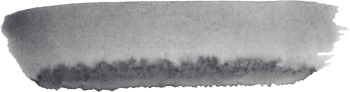
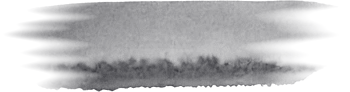
AK sweeps: torn ends, no upright slits in the earth bank

Changed region(s): [[0.0, 0.0217, 0.2857, 0.9783], [0.7143, 0.0, 1.0, 0.9348]]

diff --git a/tools/build_inklines.py b/tools/build_inklines.py
@@ -169,7 +169,7 @@ def trunks(key, ink, thr=0.12, sufs=('_t', '_y'), ylow=0.6, core=False):
         save(Y_, k, a); man[Y_][-1].update(by=round(cy(a[:, :e]), 3), ty=round(cy(a[:, -e:]), 3)); k += 1
 
 
-def rowsheet(key, ink, sufs, thr=0.1, gap=9, blob=None, top=0, skirt=None, join=25, heads=()):
+def rowsheet(key, ink, sufs, thr=0.1, gap=9, blob=None, top=0, skirt=None, join=25, heads=(), soft=()):
     """a sheet of rows of separate pieces (N: foliage, O: grass), one kind a row: rows found as bands of ink, pieces as
     runs of columns in a band (gap: what still joins two columns into one piece).
     blob (a width for every row): pieces found instead as islands of ink, grown by that much to hold an island of
@@ -196,7 +196,13 @@ def rowsheet(key, ink, sufs, thr=0.1, gap=9, blob=None, top=0, skirt=None, join=
                 t0 = ndi.median_filter(t0, size=int(81 * u) | 1, mode='nearest'); q = q * np.clip((t0[None, :] + (skirt[j] + 0.12) * hq - np.arange(hq)[:, None]) / (0.12 * hq), 0, 1)
                 rows = np.nonzero(q.max(axis=1) > thr)[0]
             cols = np.nonzero(q.max(axis=0) > thr)[0]
-            save(key + suf, k, q[rows[0]:rows[-1] + 1, cols[0]:cols[-1] + 1]); k += 1
+            q = q[rows[0]:rows[-1] + 1, cols[0]:cols[-1] + 1]
+            if j in soft:   # sheet AK, broad sweeps: each begins and ends blunt, and laid in rows on a bank those ends stood as upright slits in the dark. Both ends thinned out, each row of the piece from a place of its own, so the end is torn and not ruled
+                hq, wq = q.shape; f = max(4, int(0.16 * wq)); rg = np.random.default_rng(k + 7 * j); xs = np.arange(wq, dtype=np.float32)[None, :]
+                for sd in (0, 1):
+                    o = ndi.gaussian_filter1d(rg.random(hq).astype(np.float32), max(1.0, 0.04 * hq), mode='nearest'); o = (o - o.min()) / max(1e-6, float(o.max() - o.min())) * f
+                    q = q * np.clip(((xs if sd == 0 else wq - 1 - xs) - o[:, None]) / f, 0, 1) ** 1.3
+            save(key + suf, k, q); k += 1
     print(' rows', len(bands), 'of', len(sufs))
 
 
@@ -344,7 +350,7 @@ for name in sorted(os.listdir(SRC)):
     elif kind == 'ag': rowsheet(src, ink, ('_gc', '_ga', '_gs', '_gd', '_gm'), blob=(31, 5, 5, 15, 19))   # marks of hard rock: angular contour strokes (one has a gap), large axe-cuts, small axe-cuts, dry scrapes, clusters of blunt dots
     elif kind == 'ah': rowsheet(src, ink, ('_ec', '_eh', '_es', '_ed', '_eg'), thr=0.06, blob=(5, 15, 13, 25, 9))   # marks of soft earth: swelling contour strokes, hemp-fibre bundles, curling bundles, rice dots in level rows, grass tufts
     elif kind == 'ai': rowsheet(src, ink, ('_il', '_is', '_ig', '_in', '_if'), thr=0.05, blob=(5, 21, 31, 9, 25), join=65)   # still water: long single lines, short ones, loose groups of two to four, net-pattern patches, fish-scale patches
-    elif kind == 'ak': rowsheet(src, ink, ('_kw', '_kg', '_kd', '_km', '_kl'), thr=0.05, blob=(23, 15, 21, 21, 9), heads=(0,))   # dark near ground: broad sweeps of thick ink (solid top, lower edge breaking into dry streaks and flecks), grey wet washes (darker rim below), dry broken bands, clusters of wet moss dots, short level dabs
+    elif kind == 'ak': rowsheet(src, ink, ('_kw', '_kg', '_kd', '_km', '_kl'), thr=0.05, blob=(23, 15, 21, 21, 9), heads=(0,), soft=(0, 1))   # dark near ground: broad sweeps of thick ink (solid top, lower edge breaking into dry streaks and flecks), grey wet washes (darker rim below), dry broken bands, clusters of wet moss dots, short level dabs
     elif kind == 'b': loose(src, ink)
     print(name, L.shape[::-1], 'paper', round(bg))
 for k in man: print(k, len(man[k]), [(p['w'], p['h'], p['tone']) for p in man[k]][:10])

diff --git a/DESIGN.md b/DESIGN.md
@@ -182,3 +182,5 @@ Water as layer divider + whole-mountain mirror image = modern ink style (classic
 - Trunk, second pass (11-19, Yang rejected the full-stroke trunk: "thân trơn và hơi thô quá"): bare wood stays the dry streaky stroke; big bare trees (L >= 0.3H) get a thinner, paler full stroke under every limb so streaks stand on wood, not paper. Lattice at forks reduced, not gone.
 
 - Sheet AK cut 11-19 (Muse only; `ONLY=ak`): `_kw` 5 dark sweeps, `_kg` 5 grey washes, `_kd` 5 dry bands (last two of six merged), `_km` 8 moss clusters, `_kl` 10 level dabs. Dark sweeps trail flecks into the next one: cut at the start of each solid block (`heads=` in rowsheet), not by columns or islands. Bank: `_kw` upper rows, `_kg` mixed in lower rows, dabs + moss on top (hardly seen on the black). With `_kw` far fewer marks per row (as many as AH strokes closed into flat black) and thinner under-wash. Seen in bot: brush blocks read; blunt ends of sweeps leave upright notches mid-body.
+
+- AK sweeps `_kw`, `_kg`: ends torn in the cutter (`soft=`, each pixel row fades from its own place over ~16% of the width). Blunt ends had stood as upright slits in the bank. Bot: slits gone, bank a little paler.
